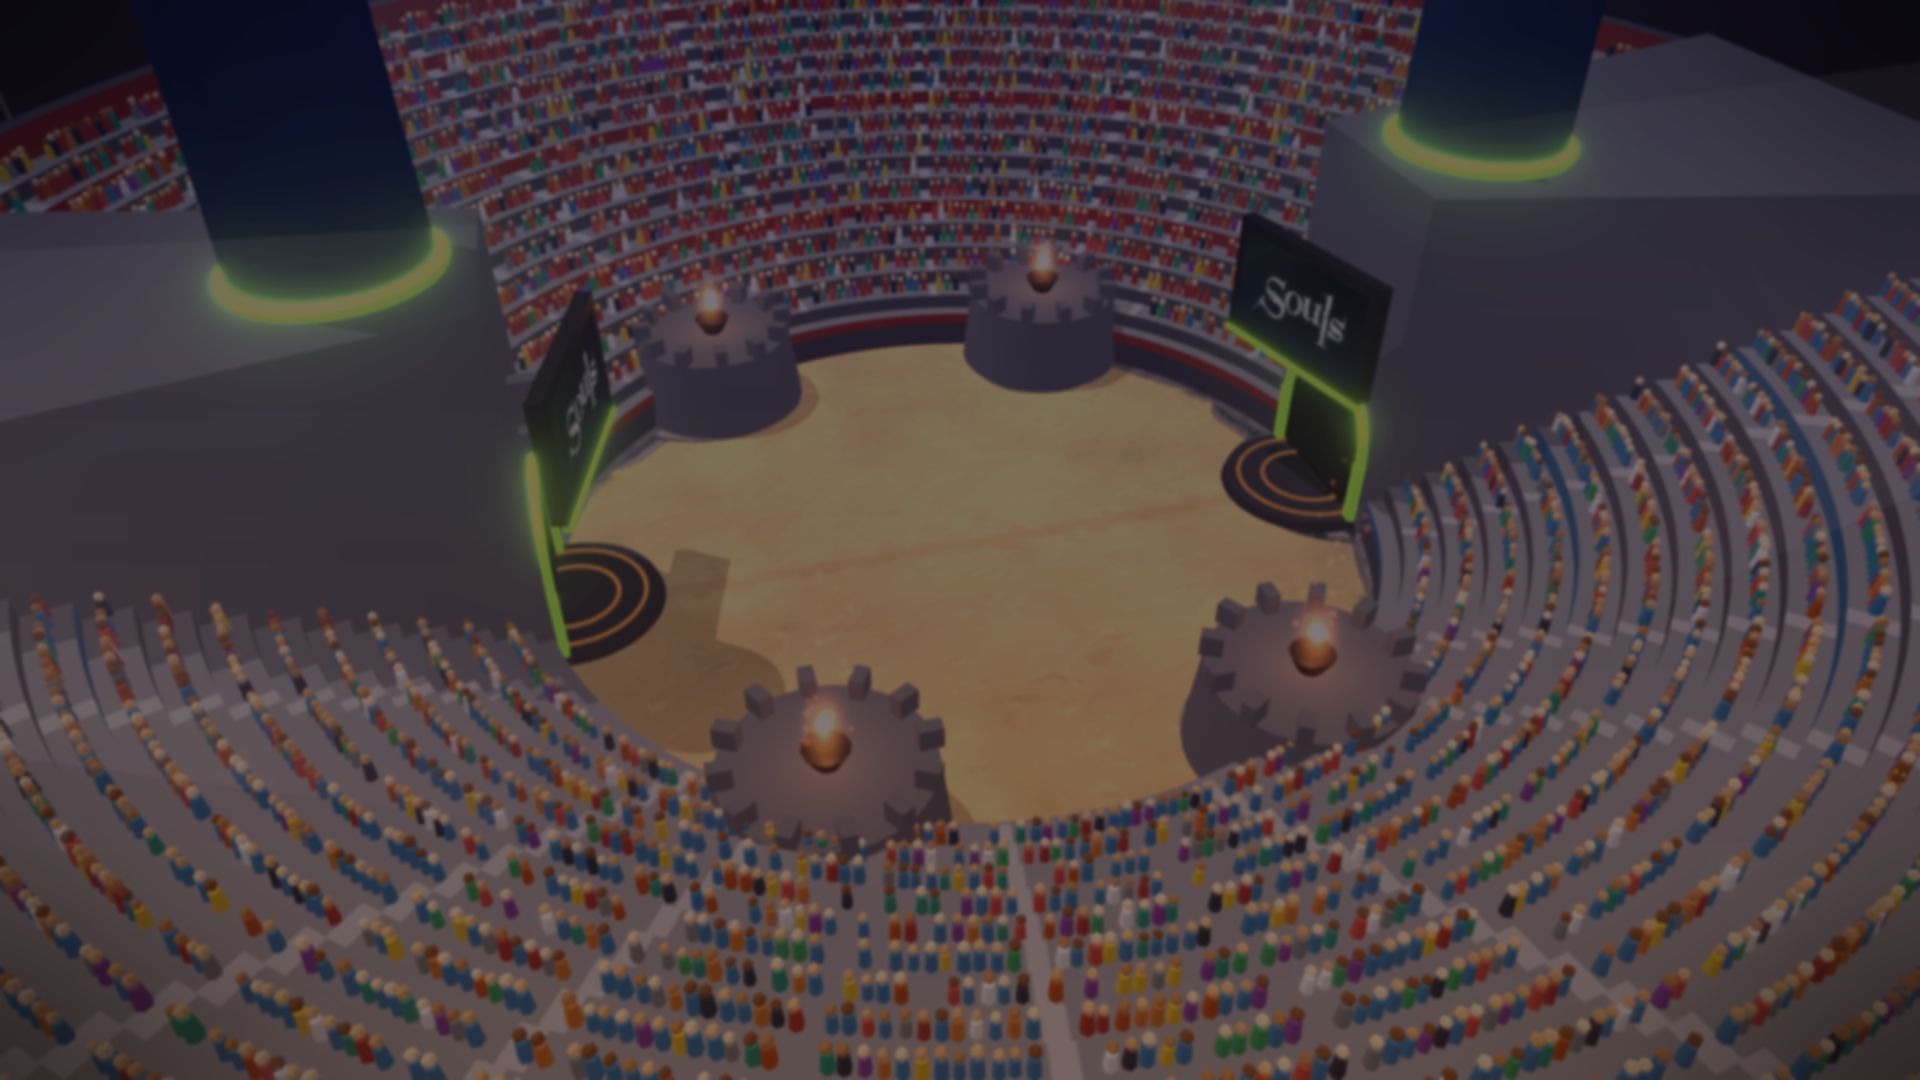
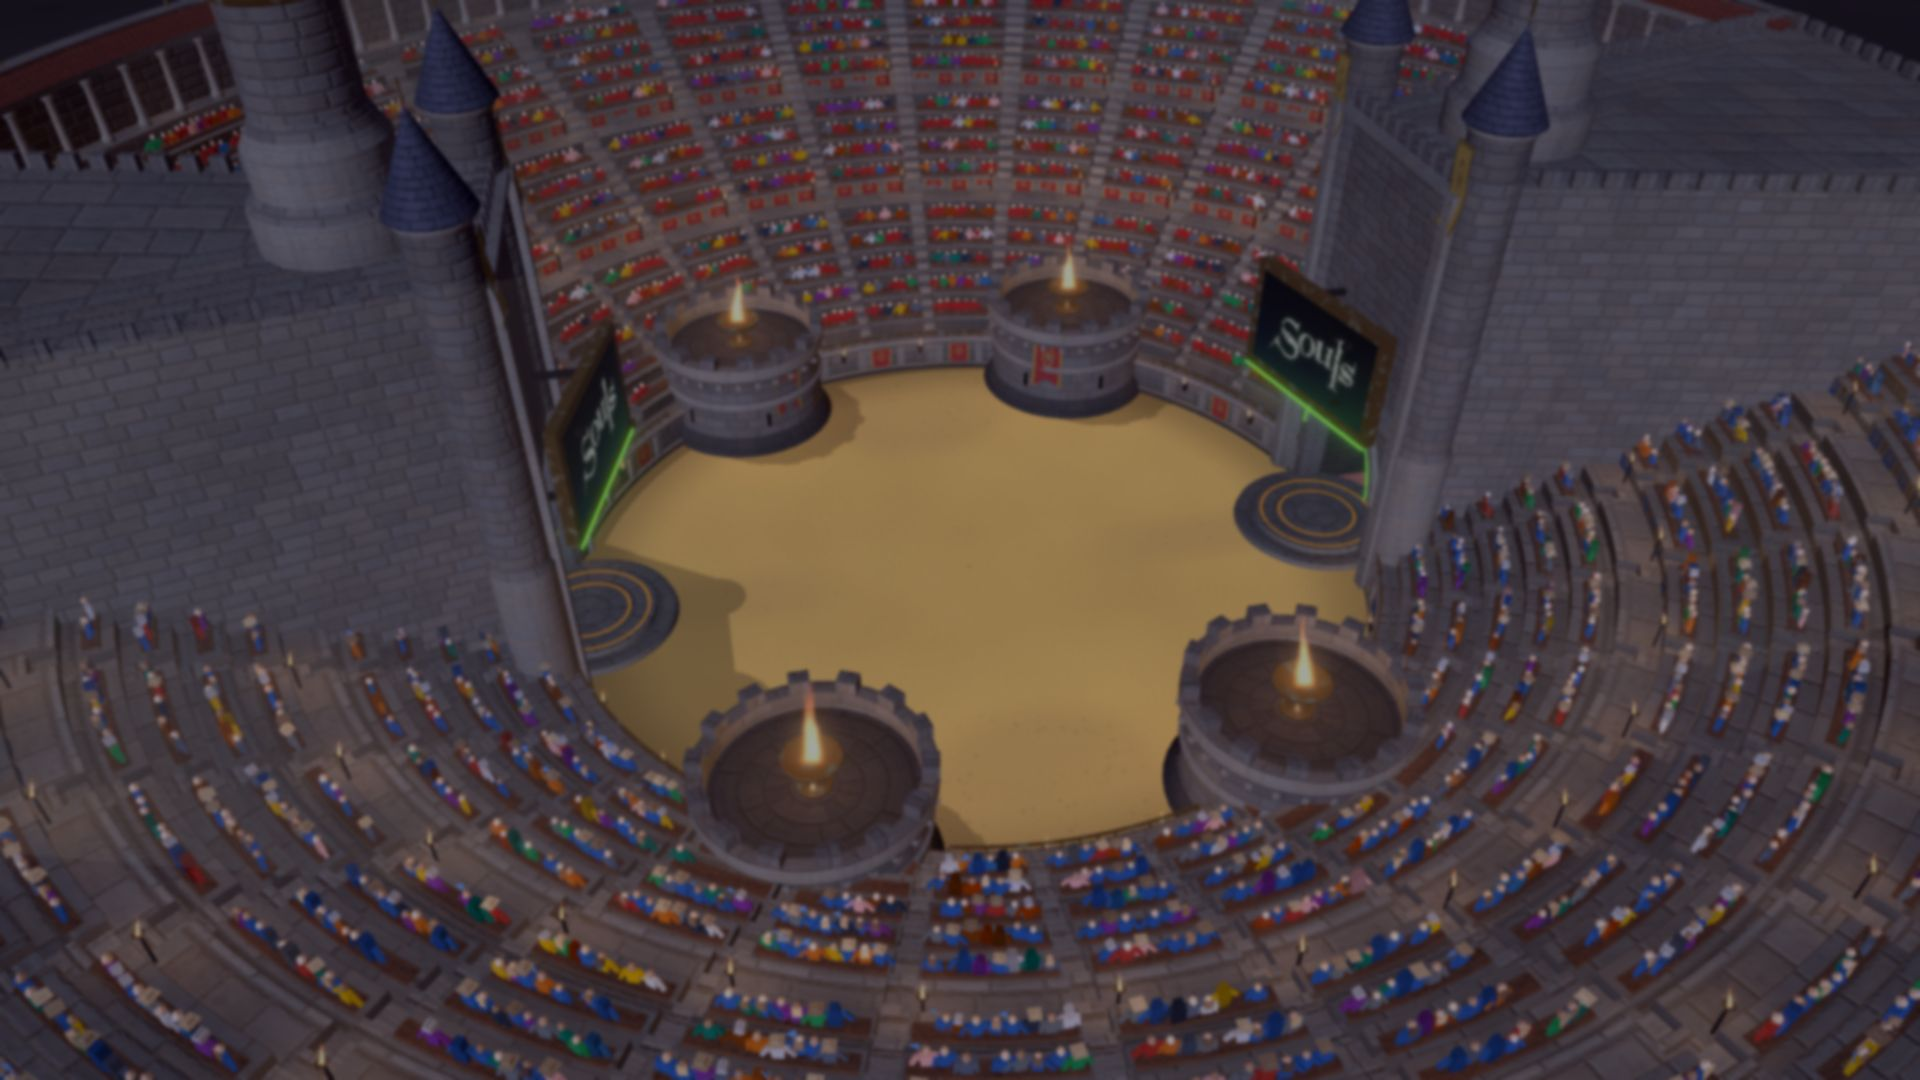
Site backdrop rendered from the new stadium; gatehouse roofs with flags and crenellations
The backdrop is the empty arena from the same high three-quarter view, graded like the
old one (soft focus, the same per-channel tone and contrast, centre-to-corner vignette),
1920x1080 progressive JPEG, 172 KB (was 161 KB).

diff --git a/src/Souls.Web/wwwroot/Scripts/Game3D/stadium.js b/src/Souls.Web/wwwroot/Scripts/Game3D/stadium.js
@@ -556,8 +556,18 @@ function gatehouse(w, side, segs, fires, screens) {
     }
     // back
     w.panel('stone', flipX([P(outX, 0, outHalf), P(outX, 0, -outHalf), P(outX, Hw, -outHalf), P(outX, Hw, outHalf)]), stone, outHalf * 2, Hw);
-    // roof deck
-    w.panel('stone', flipX([P(fx, Hw, fh), P(outX, Hw, outHalf), P(outX, Hw, -outHalf), P(fx, Hw, -fh)]), { ...stone, kind: STONE.slab }, outX - fx, outHalf * 2);
+    // Roof deck of large flags, with a crenellated parapet along its sides and back.
+    w.panel('stone', flipX([P(fx, Hw, fh), P(outX, Hw, outHalf), P(outX, Hw, -outHalf), P(fx, Hw, -fh)]), { ...stone, kind: STONE.slab, color: C(TINT.tread), bw: 80, bh: 80 }, outX - fx, outHalf * 2);
+    const parapet = (x0, z0, x1, z1) => {
+        const len = Math.hypot(x1 - x0, z1 - z0), n = Math.floor(len / 46);
+        const rot = Math.atan2(-(z1 - z0), x1 - x0) * side; // local x along the edge
+        for (let i = 0; i < n; i++) {
+            const f = (i + 0.5) / n;
+            w.box('stone', X(x0 + (x1 - x0) * f), Hw + 13, z0 + (z1 - z0) * f, 26, 26, 14, rot, { ...stone, bw: 26, bh: 26 }, 'ny');
+        }
+    };
+    for (const sz of [-1, 1]) parapet(fx + 60, sz * (fh + 60 * Math.tan(g) - 8), outX - 8, sz * (outHalf - 8));
+    parapet(outX - 8, -outHalf + 24, outX - 8, outHalf - 24);
 
     // Portal slab with the arched tunnel mouth (an opening through the slab, not a dark plane).
     const AW = 130, AH = 140; // half width, spring height of the arch
